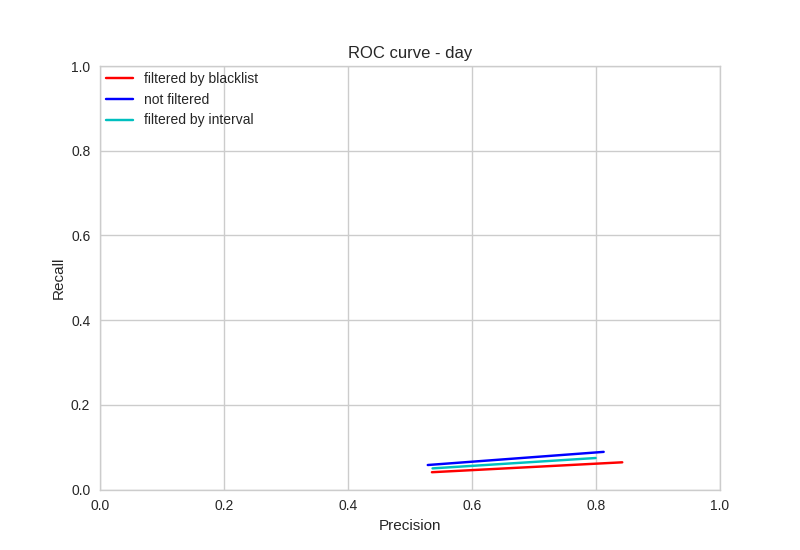
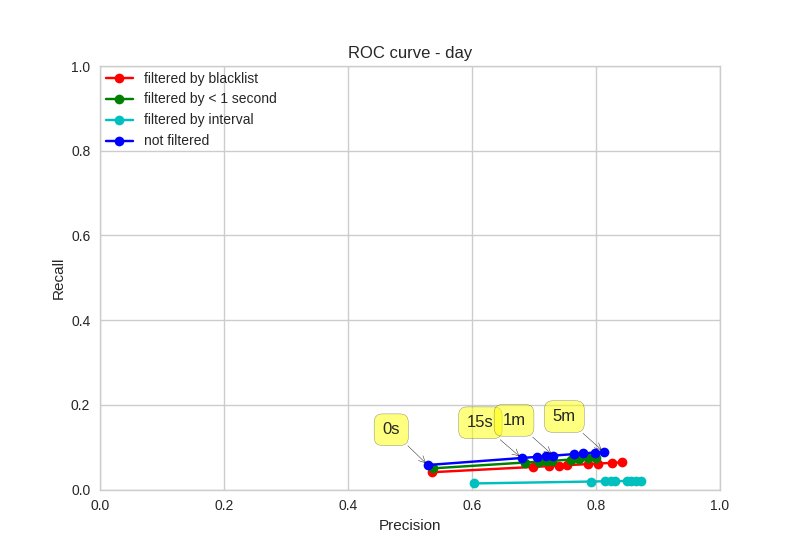
solved bug on filtering spikes

diff --git a/inter_event_time_by_url_analysis.py b/inter_event_time_by_url_analysis.py
@@ -49,7 +49,9 @@ def get_filtered_traces():
     #traces = defaultdict(list)
     blacklist = create_blacklist_dict()
     user_traces_dict = defaultdict(list)
-
+    user_traces_dict_url = defaultdict(list)
+    collaborative_blacklist = []
+    
     for user in users:
         print ('user : ' + user.username)
 
@@ -88,7 +90,7 @@ def get_filtered_traces():
             idt = user_id[0]
 
             if idt != 'bowen.laptop' and idt != 'bridgeman.laptop2' and idt != 'bridgeman.stuartlaptop' and idt != 'chrismaley.loungepc' and idt != 'chrismaley.mainpc' and idt != 'clifford.mainlaptop' and idt != 'gluch.laptop' and idt != 'kemianny.mainlaptop' and idt != 'neenagupta.workpc':
-            #if idt != 'neenagupta.workpc':#'kemianny.mainlaptop': 
+            #if idt != 'neenagupta.workpc':#and idt != 'kemianny.mainlaptop': 
                 continue
 
             for row in ses.execute(text(sql_url).bindparams(d_id = elem_id)):
@@ -120,16 +122,19 @@ def get_filtered_traces():
                     #the first event is always considereed:
                     if row_number == 2:
                         traces_dict[valid_url].append(row[1])
-                        user_traces_dict[idt].append(row[1])
+                        #user_traces_dict[idt].append(row[1])
+                        
                     #filter by > 1s and percentage of iat 
-                    #if iat > 1:
-                    traces_dict[valid_url].append(row[0])
-                    user_traces_dict[idt].append(row[0])
+                    if iat > 1:
+                        traces_dict[valid_url].append(row[0])
+                        #user_traces_dict[idt].append(row[0])
 
                 #eliminate spikes
-                #if traces_dict[valid_url] and len(traces_dict[valid_url]) > 1:
-                    #traces_dict[valid_url] = filter_spikes(traces_dict[valid_url], valid_url)
+                if traces_dict[valid_url] and len(traces_dict[valid_url]) > 1:
+                    traces_dict[valid_url], collaborative_blacklist = filter_spikes(traces_dict[valid_url], valid_url, collaborative_blacklist)
 
+                for timst in traces_dict[valid_url]:
+                    user_traces_dict[idt].append(timst)
 
             #get inter event times per query domain
             valid_dns_list = []
@@ -175,22 +180,26 @@ def get_filtered_traces():
                     iat = (row[0]-row[1]).total_seconds()
                     #always consider fisrt event
                     if row_number == 2:
-                        user_traces_dict[idt].append(row[1])
+                        #user_traces_dict[idt].append(row[1])
                         traces_dict[dnsreq].append(row[1])
-                    #if iat > 1:
-                    user_traces_dict[idt].append(row[0])
-                    traces_dict[dnsreq].append(row[0])
+                    if iat > 1:
+                        #user_traces_dict[idt].append(row[0])
+                        traces_dict[dnsreq].append(row[0])
+                        #user_traces_dict_url[idt].append(valid_url)
 
                 #eliminate spikes
-                #if traces_dict[dnsreq] and len(traces_dict[dnsreq]) > 1:
-                    #traces_dict[dnsreq] = filter_spikes(traces_dict[dnsreq], dnsreq)
+                if traces_dict[dnsreq] and len(traces_dict[dnsreq]) > 1:
+                    traces_dict[dnsreq], collaborative_blacklist = filter_spikes(traces_dict[dnsreq], dnsreq, collaborative_blacklist)
+
+                for timst in traces_dict[dnsreq]:
+                    user_traces_dict[idt].append(timst)
 
             #if traces_dict:
                 #plot_traces(traces_dict, valid_url_list, idt)#user.username, devs[int(elem_id)])
     #print user_traces_dict
     return user_traces_dict
 
-def filter_spikes(traces_list, url_domain):
+def filter_spikes(traces_list, url_domain, collaborative_blacklist):
 
     pre_filtered_list = []
     cont = 0
@@ -203,13 +212,13 @@ def filter_spikes(traces_list, url_domain):
 
         #if url_domain == 'su.ff.avast.com':
             #print interval_list
-        if traces_list != pre_filtered_list and url_domain == '===u-ads.adap.tv':
-            print '===== round ' + str(cont)
-            print url_domain
-            print len(pre_filtered_list)
-            print len(traces_list)
-            #for elem in traces_list:
-                #print elem
+        if traces_list != pre_filtered_list:
+            if url_domain not in collaborative_blacklist:
+                collaborative_blacklist.append(url_domain)
+            #print '===== round ' + str(cont)
+            #print url_domain
+            #print len(pre_filtered_list)
+            #print len(traces_list)
 
     """timsts = traces_list
     for timst in timsts:
@@ -219,7 +228,7 @@ def filter_spikes(traces_list, url_domain):
             print 'not filtered ' + str(timst) + ' ' + str(url_domain)"""
 
 
-    return traces_list
+    return traces_list, collaborative_blacklist
 
 
 def plot_traces(traces_dict, url_list, user_id):

diff --git a/dumb_roc_plot_fixed.py b/dumb_roc_plot_fixed.py
@@ -3,6 +3,8 @@ import seaborn as sns
 
 from collections import defaultdict
 
+window_error = ['0s', '15s', '30', '45', '1m', '2', '3', '4', '5m' ]
+
 def main_beginning_of_day():
 
     x = defaultdict(list)
@@ -61,14 +63,20 @@ def main():
     x = defaultdict(list) #precision
     y = defaultdict(list) #recall
 
-    y_interval_filtered_day = [4.98887679273, 6.37320332592, 6.58257206418, 6.69853741658, 6.78626086682, 7.06631324845, 7.18890519241, 7.32569697543, 7.43629794418]
-    x_interval_filtered_day = [53.6368571041, 68.5166652532, 70.7675345603, 72.0142481554, 72.9573403443, 75.9681112713, 77.2847547323, 78.7553429676, 79.9430093119]
+    y_1sec_filtered_day = [4.98887679273, 6.37320332592, 6.58257206418, 6.69853741658, 6.78626086682, 7.06631324845, 7.18890519241, 7.32569697543, 7.43629794418]
+    x_1sec_filtered_day = [53.6368571041, 68.5166652532, 70.7675345603, 72.0142481554, 72.9573403443, 75.9681112713, 77.2847547323, 78.7553429676, 79.9430093119]
 
     y_blist_filtered_day = [4.08056042032, 5.32336189079, 5.52168630978, 5.64759154952, 5.74209936732, 6.00053643836, 6.12423281425, 6.3003108187, 6.42148277875]
     x_blist_filtered_day = [53.5343917534, 69.8333850771, 72.4350615751, 74.0867225499, 75.3265031564, 78.7167546311, 80.3394390976, 82.6492807617, 84.2371057207]
 
     y_not_filtered_day = [5.78154336473, 7.43566684022, 7.7119325981, 7.87428409145, 7.99750713936, 8.35660529181, 8.52905444849, 8.734794339, 8.8856281851]
     x_not_filtered_day = [52.8643767041, 67.985170439, 70.5111005323, 71.9954991994, 73.1221419195, 76.4054182715, 77.9810161276, 79.8620928421, 81.2399924989]
+
+    y_interval_filtered_day = [1.43260598602, 1.87990091668, 1.93117811331, 1.9573689276, 1.96999100677, 2.01606159575, 2.0335747306, 2.05108786545, 2.06954765624]
+    x_interval_filtered_day = [60.368326574, 79.2115410185, 81.3721579577, 82.4757346098, 83.0075787794, 84.9488099987, 85.6867437841, 86.4246775695, 87.2024996676]
+
+    x['1_sec_day'] = divide_value_per_100(x_1sec_filtered_day)
+    y['1_sec_day'] = divide_value_per_100(y_1sec_filtered_day)
 
     x['blist_day'] = divide_value_per_100(x_blist_filtered_day)
     y['blist_day'] = divide_value_per_100(y_blist_filtered_day)
@@ -101,13 +109,24 @@ def plot_roc_curve (x, y, beg_end):
 
     for key, x_values in x.iteritems():
         if key == 'not_filtered_' + str(beg_end):
-            plt.plot(x_values,y[key], 'b', label = 'not filtered')
+            plt.plot(x_values,y[key], marker = 'o', linestyle = '-', color = 'b', label = 'not filtered')
+            cont = -1
+            for label in window_error:
+                cont+=1
+                if label == '30' or label == '45' or label == '2' or label == '3' or label == '4':
+                    continue
+                plt.annotate(label, xy=(x_values[cont], y[key][cont]), xytext=(-20, 20),
+                         textcoords='offset points', ha='right', va='bottom',
+                         bbox=dict(boxstyle='round,pad=0.5', fc='yellow', alpha=0.5),
+                         arrowprops=dict(arrowstyle = '->', connectionstyle='arc3,rad=0'))
         elif key == 'filtered_' + str(beg_end):
-            plt.plot(x_values,y[key], 'g', label = 'filtered by both spikes and blcklist')
+            plt.plot(x_values,y[key], marker = 'o', linestyle = '-', color = 'black', label = 'filtered by both spikes and blcklist')
         elif key == 'interval_' + str(beg_end):
-            plt.plot(x_values,y[key], 'c', label = 'filtered by interval')
+            plt.plot(x_values,y[key], marker = 'o', linestyle = '-', color = 'c', label = 'filtered by interval')
         elif key == 'blist_' + str(beg_end):
-            plt.plot(x_values,y[key], 'r', label = 'filtered by blacklist')
+            plt.plot(x_values,y[key], marker = 'o', linestyle = '-', color = 'r', label = 'filtered by blacklist')
+        elif key == '1_sec_' + str(beg_end):
+            plt.plot(x_values,y[key], marker = 'o', linestyle = '-', color = 'g', label = 'filtered by < 1 second')
 
     plt.legend (loc=2, borderaxespad=0.)
     #plt.grid(True)

diff --git a/inter_event_time_compare_daily_usage.py b/inter_event_time_compare_daily_usage.py
@@ -128,13 +128,13 @@ def get_tp_fn_fp_tn(traces, act_beg, act_end, first_day, last_day, error_window)
 
     #print 'first_day ' + str(first_day)
     #print 'last day ' + str(last_day)
-    #print 'act_duration ' + str(act_duration)
-    #print 'number of traces ' + str(len(traces))
-    #print 'non act duration ' + str(non_act_duration)
-    #print 'tp ' + str(tp)
-    #print 'fn ' + str(fn)
-    #print 'tn ' + str(int(tn))
-    #print 'fp ' + str(int(fp))
+    print 'act_duration ' + str(act_duration)
+    print 'number of traces ' + str(len(traces))
+    print 'non act duration ' + str(non_act_duration)
+    print 'tp ' + str(tp)
+    print 'fn ' + str(fn)
+    print 'tn ' + str(int(tn))
+    print 'fp ' + str(int(fp))
     return tp, fn, fp, tn
 
 
